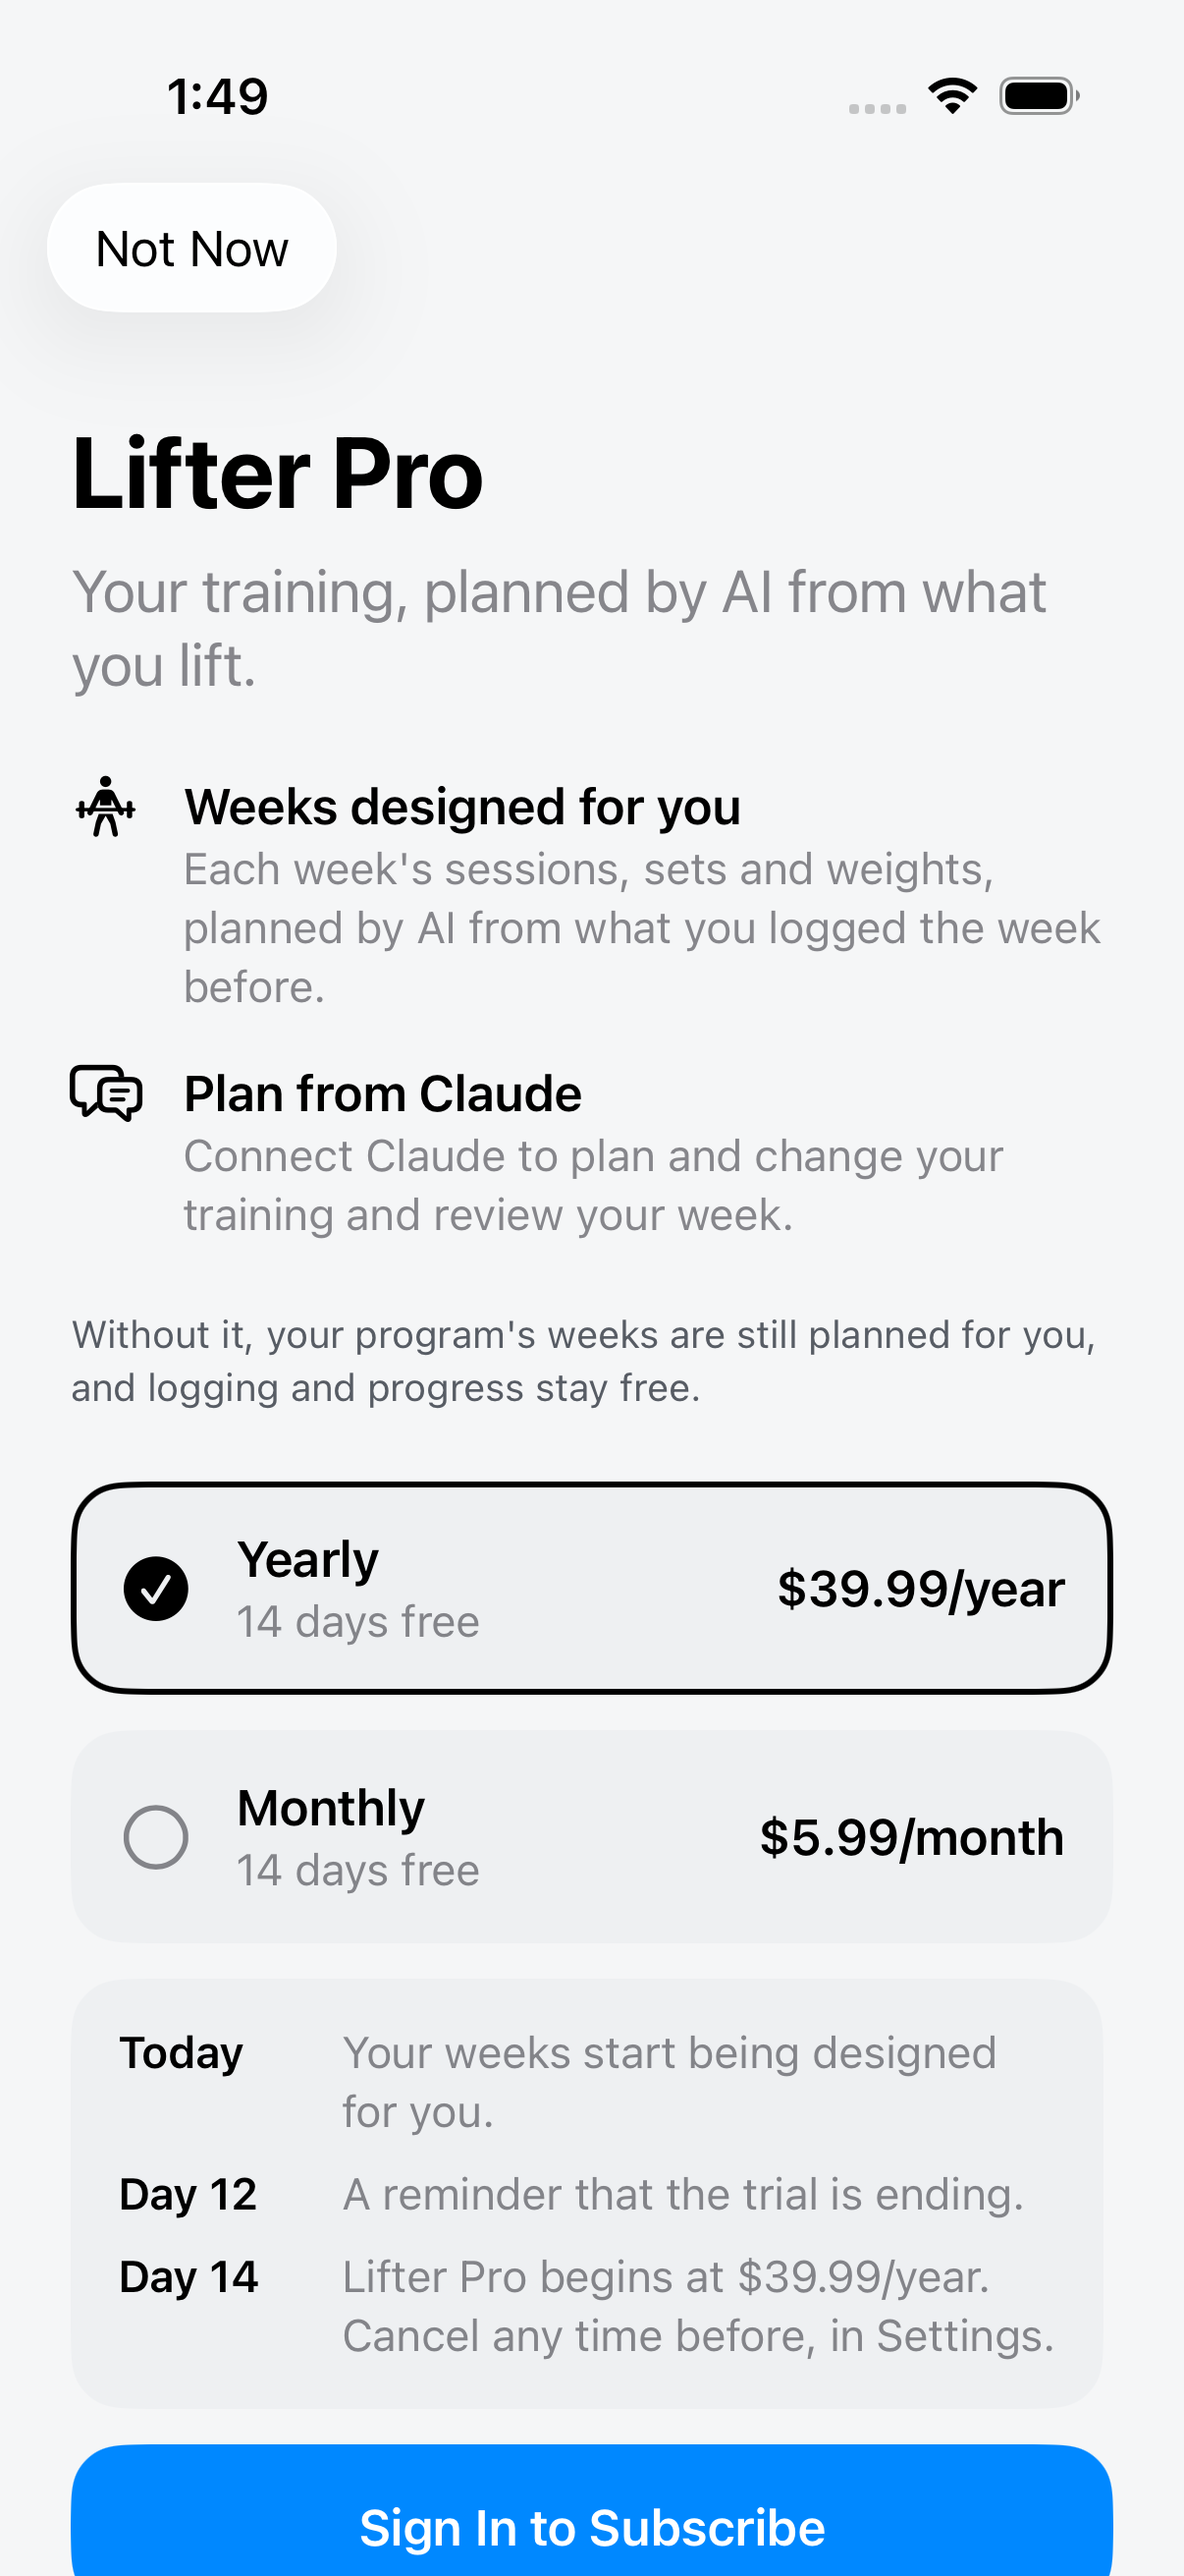
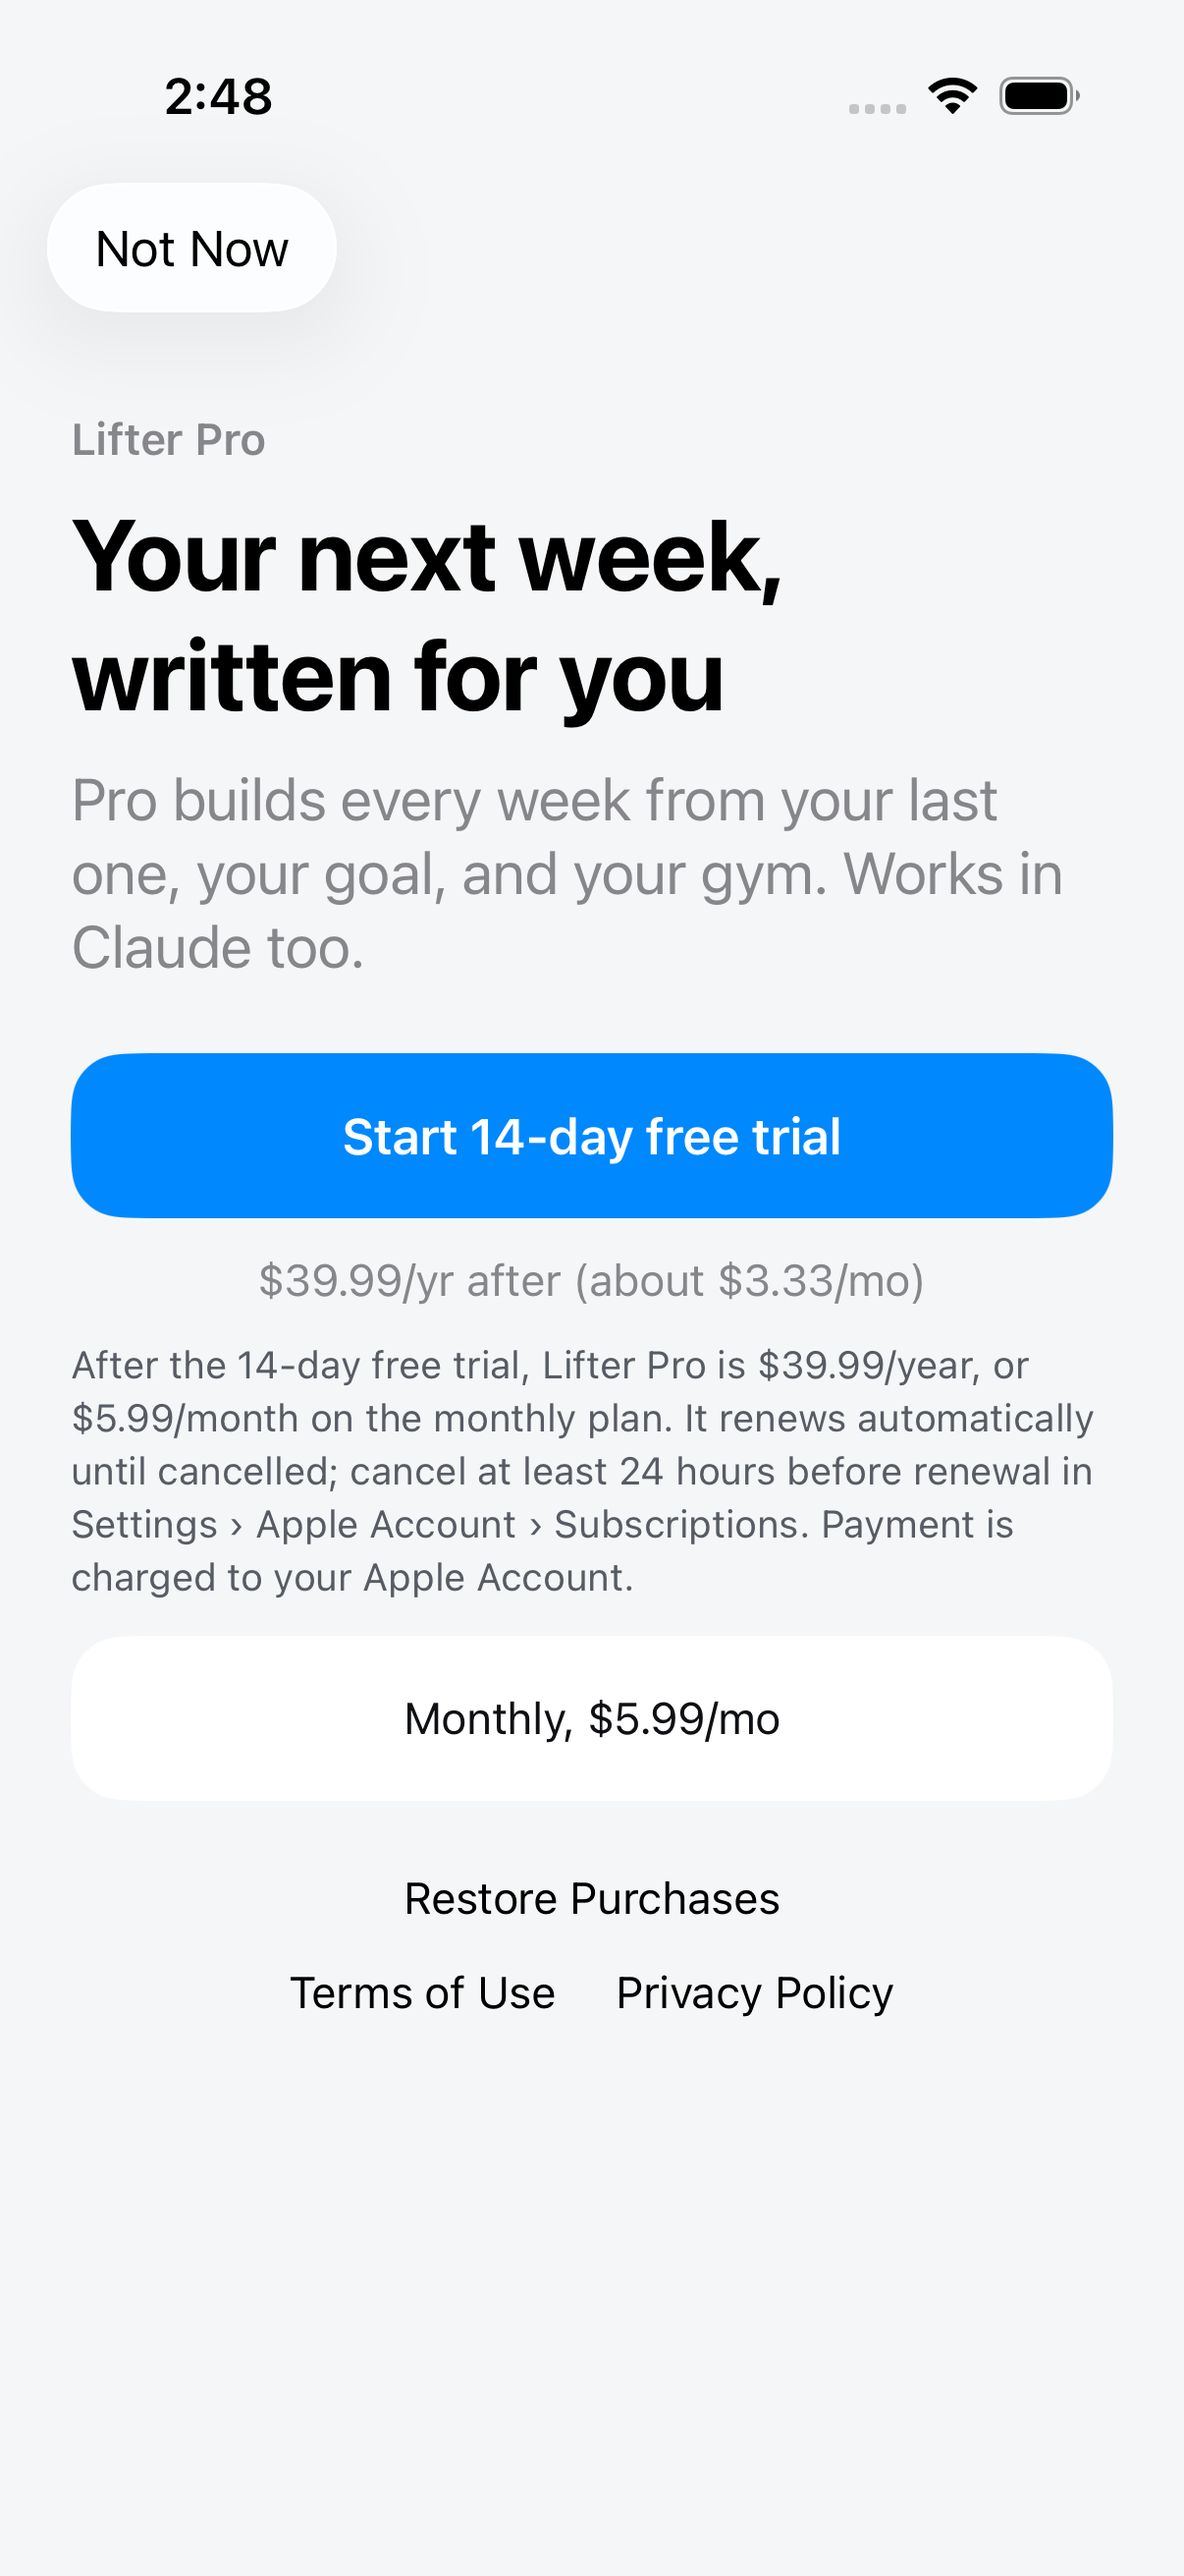
FIT-437: Lifter Pro's review screenshot shows the approved paywall

diff --git a/Tests/UITests/PaywallScreenshotUITests.swift b/Tests/UITests/PaywallScreenshotUITests.swift
@@ -20,10 +20,15 @@ final class PaywallScreenshotUITests: XCTestCase {
         app.launch()
 
         // The App Store's products, with their prices, once loaded.
-        let yearly = app.buttons["paywall.yearly"]
-        XCTAssertTrue(yearly.waitForExistence(timeout: 30), "The \(plan) paywall's products didn't load.")
+        // Lifter Pro's approved layout leads with the yearly button; Coach Pro lists both plans.
+        let first = plan == "lifter" ? app.buttons["paywall.buy"] : app.buttons["paywall.yearly"]
+        XCTAssertTrue(first.waitForExistence(timeout: 30), "The \(plan) paywall's products didn't load.")
         XCTAssertTrue(app.buttons["paywall.monthly"].exists)
         XCTAssertTrue(app.buttons["paywall.buy"].exists)
+        if plan == "lifter" {
+            XCTAssertTrue(app.staticTexts["paywall.headline"].exists)
+            XCTAssertTrue(app.staticTexts["paywall.yearly.price"].exists)
+        }
         XCTAssertTrue(app.staticTexts["paywall.terms.renewal"].exists)
         XCTAssertTrue(app.staticTexts[plan == "lifter" ? "Lifter Pro" : "Coach Pro"].exists)
         XCTAssertTrue(app.buttons["paywall.restore"].exists)
